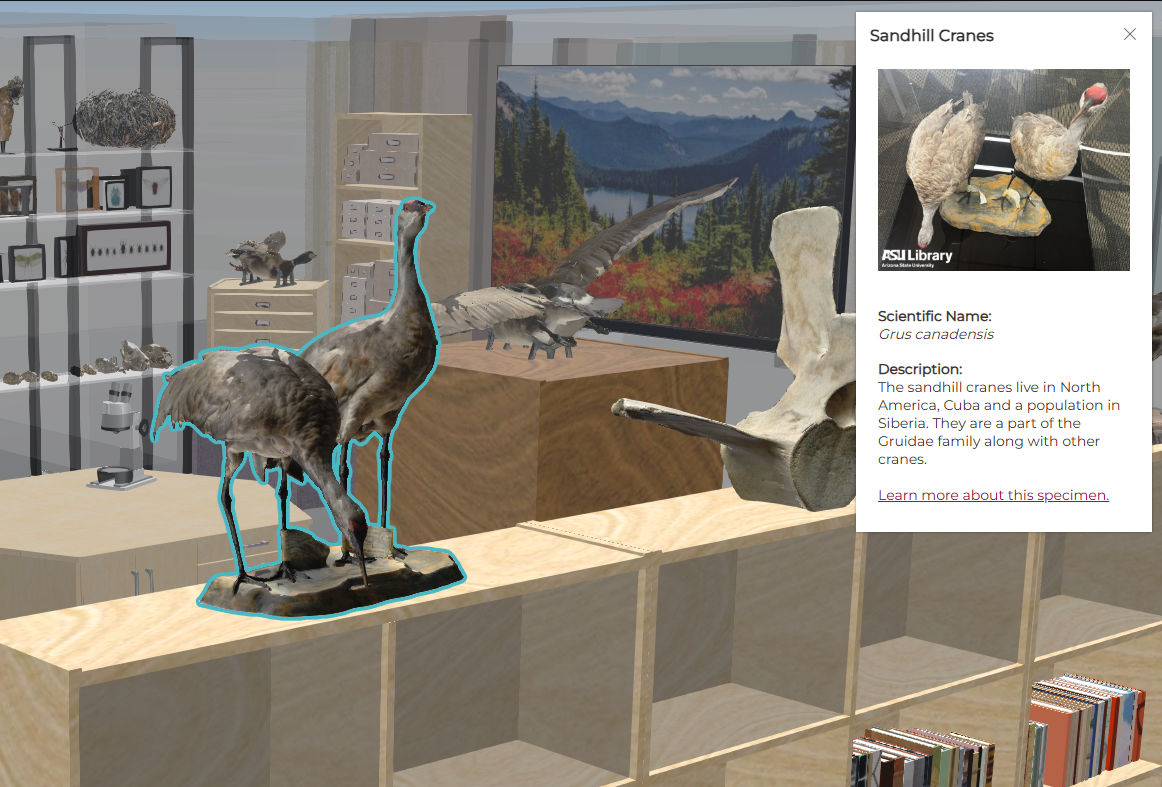
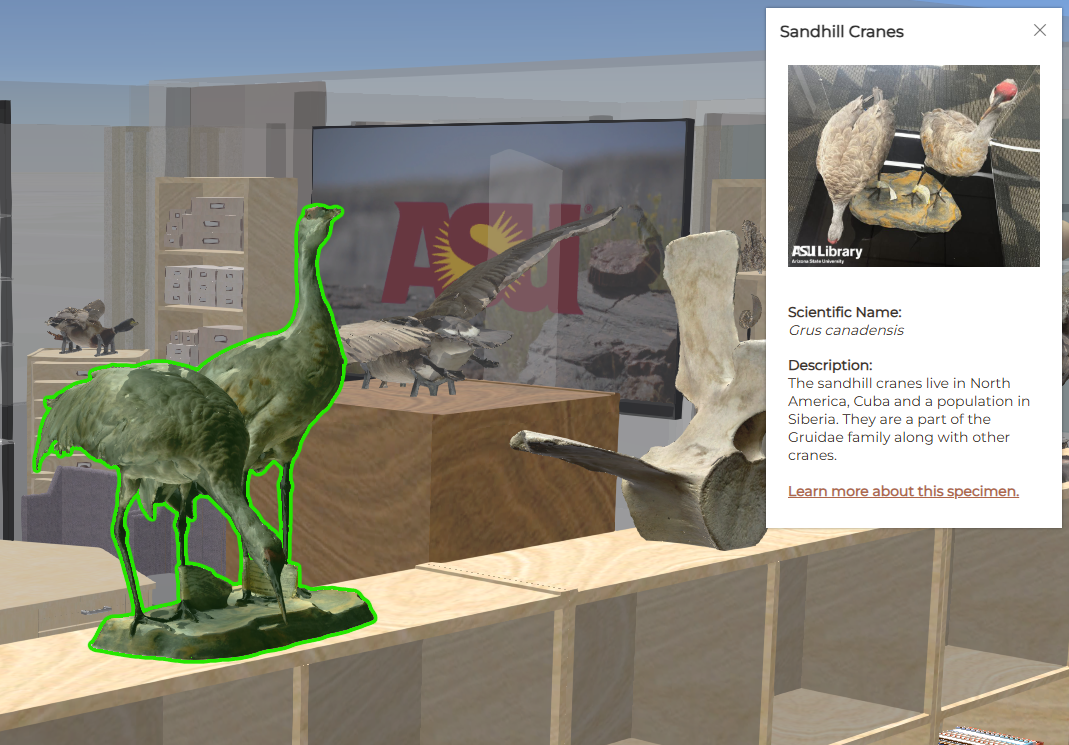
Font, Screenshots
Changed font from Montserrat to Geologica, updated info panel screenshots to reflect new views and highlight color

diff --git a/style.css b/style.css
@@ -1,9 +1,19 @@
 html, body { 
-  font-family: 'Montserrat', sans-serif !important;
+  /*font-family: 'Montserrat', sans-serif !important;*/
+  /*font-family: 'Nunito', sans-serif !important;*/
+  /*font-family: 'Fredoka', sans-serif !important;*/
+  /*font-family: 'Spectral', sans-serif !important;*/
+  font-family: 'Geologica', sans-serif !important;
+  /*font-family: 'Kulim Park', sans-serif !important;*/
 }
 
 .pnlm-title-box {
-  font-family: 'Montserrat', sans-serif !important;
+  /*font-family: 'Montserrat', sans-serif !important;*/
+  /*font-family: 'Nunito', sans-serif !important;*/
+  /*font-family: 'Fredoka', sans-serif !important;*/
+  /*font-family: 'Spectral', sans-serif !important;*/
+  font-family: 'Geologica', sans-serif !important;
+  /*font-family: 'Kulim Park', sans-serif !important;*/
 }
 
 #viewDiv {
@@ -115,7 +125,12 @@ color: #3d352e;
 
 #infoModal .modal-title{
   font-weight: normal !important;
-  font-family: 'Montserrat', sans-serif;
+  /*font-family: 'Montserrat', sans-serif;*/
+  /*font-family: 'Nunito', sans-serif;*/
+  /*font-family: 'Fredoka', sans-serif;*/
+  /*font-family: 'Spectral', sans-serif;*/
+  font-family: 'Geologica', sans-serif;
+  /*font-family: 'Kulim Park', sans-serif;*/
   font-size: 1.5em
 }
 
@@ -126,12 +141,22 @@ color: #3d352e;
 
 #infoModal p {
   font-size: 0.85em;
-  font-family: 'Montserrat', sans-serif;
+  /*font-family: 'Montserrat', sans-serif;*/
+  /*font-family: 'Nunito', sans-serif;*/
+  /*font-family: 'Fredoka', sans-serif;*/
+  /*font-family: 'Spectral', sans-serif;*/
+  font-family: 'Geologica', sans-serif;
+  /*font-family: 'Kulim Park', sans-serif;*/
 }
 
 #infoModal ul {
   font-size: 0.85em;
-  font-family: 'Montserrat', sans-serif;
+  /*font-family: 'Montserrat', sans-serif;*/
+  /*font-family: 'Nunito', sans-serif;*/
+  /*font-family: 'Fredoka', sans-serif;*/
+  /*font-family: 'Spectral', sans-serif;*/
+  font-family: 'Geologica', sans-serif;
+  /*font-family: 'Kulim Park', sans-serif;*/
 }
 
 .esri-popup__header-title {
@@ -155,7 +180,12 @@ color: #3d352e;
 .esri-widget {
   color: #3d352e;
   display: flex;
-  font-family: 'Montserrat', sans-serif;
+  /*font-family: 'Montserrat', sans-serif;*/
+  /*font-family: 'Nunito', sans-serif;*/
+  /*font-family: 'Fredoka', sans-serif;*/
+  /*font-family: 'Spectral', sans-serif;*/
+  font-family: 'Geologica', sans-serif;
+  /*font-family: 'Kulim Park', sans-serif;*/
   }
 
   /* Esri Popup controls  */

diff --git a/index.html b/index.html
@@ -26,6 +26,14 @@
     <link href="https://fonts.googleapis.com/css2?family=Montserrat&display=swap" rel="stylesheet">
     <!--<link href="https://fonts.googleapis.com/css2?family=Merriweather&display=swap"; rel=stylesheet>-->
     <!--<link href="https://fonts.googleapis.com/css2?family=Noto Sans&display=swap"; rel=stylesheet>-->
+    <link rel="preconnect" href="https://fonts.googleapis.com">
+    <link rel="preconnect" href="https://fonts.gstatic.com" crossorigin>
+    <link href="https://fonts.googleapis.com/css2?family=Fredoka:wght@300..700&family=Geologica:wght,CRSV@100..900,0&family=Kulim+Park:ital,wght@0,200;0,300;0,400;0,600;0,700;1,200;1,300;1,400;1,600;1,700&family=Nunito:ital,wght@0,200..1000;1,200..1000&family=Spectral:ital,wght@0,200;0,300;0,400;0,500;0,600;0,700;0,800;1,200;1,300;1,400;1,500;1,600;1,700;1,800&display=swap" rel="stylesheet">
+    <link href="https://fonts.googleapis.com/css2?family=Fredoka&display=swap" rel="stylesheet">
+    <link href="https://fonts.googleapis.com/css2?family=Geologica&display=swap" rel="stylesheet">
+    <link href="https://fonts.googleapis.com/css2?family=Kulim+Park&display=swap" rel="stylesheet">
+    <link href="https://fonts.googleapis.com/css2?family=Nunito&display=swap" rel="stylesheet">
+    <link href="https://fonts.googleapis.com/css2?family=Spectral&display=swap" rel="stylesheet">
     
     <!-- import jquery -->
     <script src="https://code.jquery.com/jquery-3.6.1.slim.js" integrity="sha256-tXm+sa1uzsbFnbXt8GJqsgi2Tw+m4BLGDof6eUPjbtk=" crossorigin="anonymous"></script>
